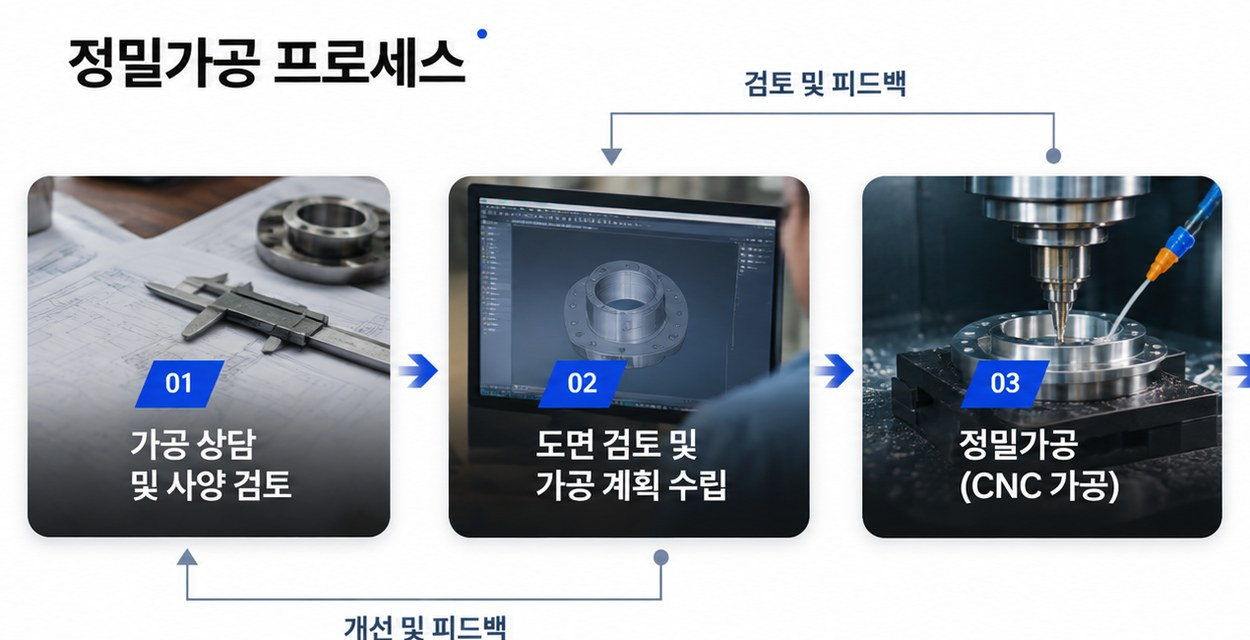
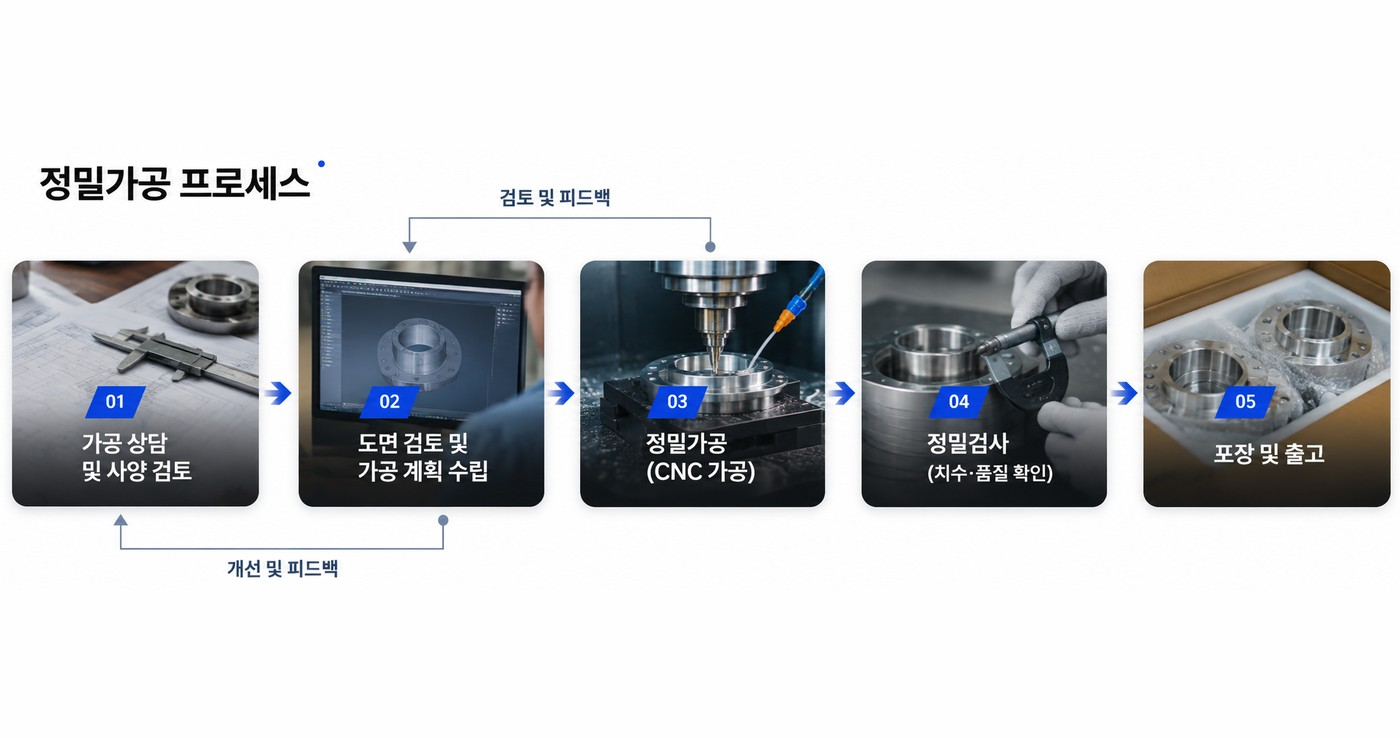
기업 상세 카드 02: 정밀가공 5단계 전체가 보이도록
Claude-Session: https://claude.ai/code/session_01M1b62wYPapP5RB8WQrccVh

diff --git a/app/Views/site/pages/corporate.php b/app/Views/site/pages/corporate.php
@@ -119,7 +119,7 @@
     </div>
     <div class="dt-cards stg rv">
       <div class="dt-card dt-card--ph"><div class="dt-card__ph"><img src="assets/corp-find-product2.jpg" alt="네이버에서 스테인리스 배관 부품 제조를 검색하면 맨 위에 나오는 회사 홈페이지" width="1240" height="653" loading="lazy"></div><span class="n">01</span><span class="lab">제품</span><p class="q">스테인리스 배관 부품 제조</p><p>제품별 상세 화면과 규격 정보</p></div>
-      <div class="dt-card dt-card--ph"><div class="dt-card__ph"><img src="assets/corp-find-tech2.jpg?v=3" alt="가공 상담 · 도면 검토 · CNC 정밀가공으로 이어지는 정밀가공 프로세스" width="1250" height="640" loading="lazy"></div><span class="n">02</span><span class="lab">기술</span><p class="q">정밀 가공 가능한 업체</p><p>보유 설비 · 기술 소개 화면</p></div>
+      <div class="dt-card dt-card--ph"><div class="dt-card__ph"><img src="assets/corp-find-tech2.jpg?v=4" alt="가공 상담부터 포장 · 출고까지 정밀가공 5단계 프로세스" width="1400" height="738" loading="lazy"></div><span class="n">02</span><span class="lab">기술</span><p class="q">정밀 가공 가능한 업체</p><p>보유 설비 · 기술 소개 화면</p></div>
       <div class="dt-card dt-card--ph"><div class="dt-card__ph"><img src="assets/corp-find-region.jpg?v=2" alt="경기도 지도 위 위치 표시" width="930" height="490" loading="lazy"></div><span class="n">03</span><span class="lab">지역</span><p class="q">경기도 금형 업체</p><p>회사 위치와 서비스 지역 표시</p></div>
       <div class="dt-card dt-card--ph"><div class="dt-card__ph"><img src="assets/corp-find-process.jpg?v=2" alt="ISO 인증과 OEM 생산 부품" width="930" height="490" loading="lazy"></div><span class="n">04</span><span class="lab">공정</span><p class="q">OEM 생산 문의</p><p>생산 절차와 문의 방법 안내</p></div>
     </div>
